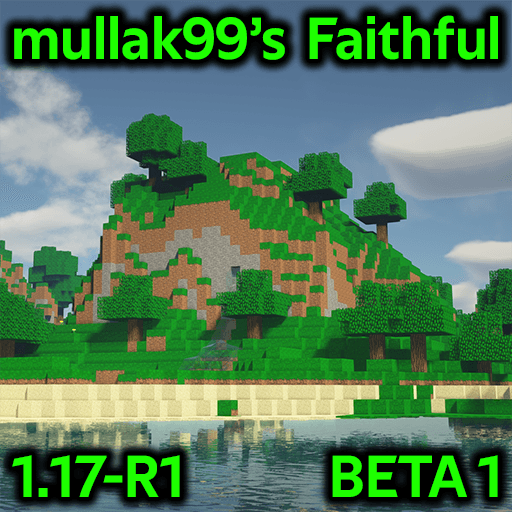
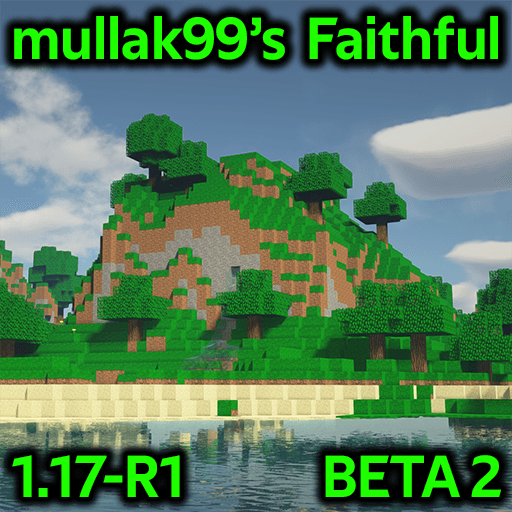
Included changes from 1.16-R13

Changed region(s): [[0.5938, 0.875, 1.0, 1.0]]

diff --git a/ChangeLog.md b/ChangeLog.md
@@ -9,9 +9,11 @@ All notable changes to mullak99's Faithful will be documented in this file.
 - Added 1.17 Entity textures
 - Added 3D Candle item model
 
+## [MC1.16-R13] - 2021-06-02
 ### Changed
 - Changed naming convention (vX.X.X > MCx.x-Rx) [Will apply retroactively]
-- Changed Dirt Path, Mycelium, Farmland, and Podzol side textures
+- Changed Dirt Path, Mycelium, Farmland, Grass (Snow), and Podzol side textures
+- Minor optimisations with Sugar Cane model
 
 ## [MC1.16-R12] - 2021-04-04
 ### Changed

diff --git a/README.md b/README.md
@@ -1,6 +1,6 @@
 # mullak99's Faithful 32x
 
-**Current Branch Version:** _MC1.17-R1_BETA1_  
+**Current Branch Version:** _MC1.17-R1_BETA2_  
 
 ## Official Links
 
